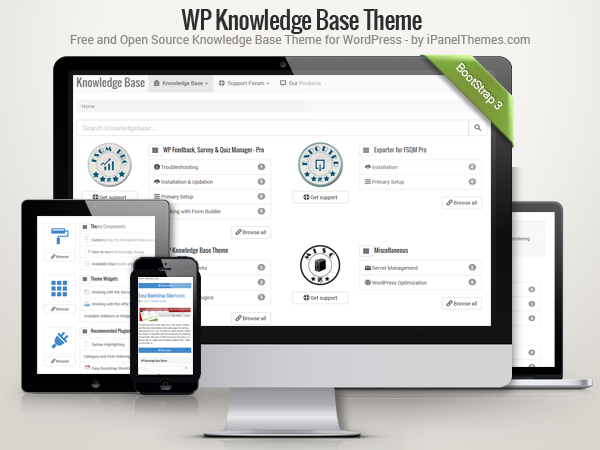
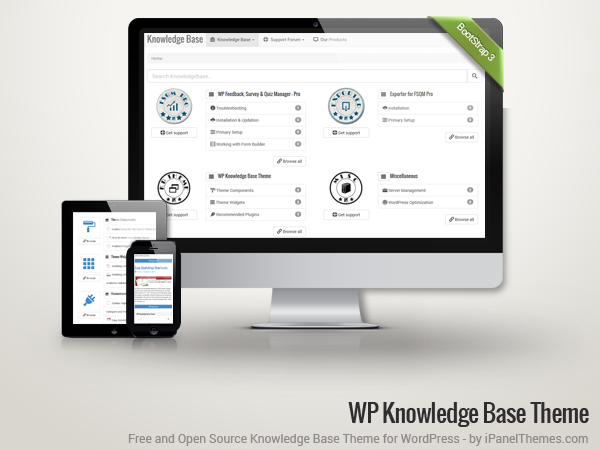
Pre commit for Version 1.1.0
Improved responsiveness on homepage and archive page, added icons on
next/previous navigation, added support for WP-PageNavi, improved image
styling on post content, improved gallery style, Changed theme main
image.

diff --git a/style.css b/style.css
@@ -434,6 +434,23 @@ textarea {
 
 /* =Media
 ----------------------------------------------- */
+a img {
+	opacity: 1;
+	-webkit-transition: opacity 400ms;
+	-moz-transition: opacity 400ms;
+	-ms-transition: opacity 400ms;
+	-o-transition: opacity 400ms;
+	transition: opacity 400ms;
+}
+a:hover img {
+	opacity: 0.7;
+}
+.entry-content img {
+	-webkit-box-shadow: 0 0 4px #eee;
+	-moz-box-shadow: 0 0 4px #eee;
+	box-shadow: 0 0 4px #eee;
+	border-radius: 4px;
+}
 img[class*="wp-image-"] {
 	border-radius: 4px;
 }
@@ -444,6 +461,9 @@ img[class*="wp-image-"] {
 	margin-bottom: 0;
 	margin-top: 0;
 	padding: 0;
+	-webkit-box-shadow: none;
+	-moz-box-shadow: none;
+	box-shadow: none;
 }
 .wp-caption {
 	border: 1px solid #ddd;
@@ -452,15 +472,22 @@ img[class*="wp-image-"] {
 	border-radius: 4px;
 	padding: 4px;
 	line-height: 1;
+	-webkit-box-shadow: 0 0 4px #eee;
+	-moz-box-shadow: 0 0 4px #eee;
+	box-shadow: 0 0 4px #eee;
 }
 .wp-caption img[class*="wp-image-"] {
 	display: block;
 	margin: 0 auto;
 	max-width: 100%;
 	border-radius: 4px;
+	-webkit-box-shadow: none;
+	-moz-box-shadow: none;
+	box-shadow: none;
 }
 .wp-caption-text {
 	text-align: center;
+	font-size: 12px;
 }
 .wp-caption .wp-caption-text {
 	margin: 0.8075em 0;
@@ -474,9 +501,13 @@ img[class*="wp-image-"] {
 	border: none;
 	height: auto;
 	max-width: 90%;
+	border: medium none !important;
+	-webkit-box-shadow: 0 0 4px #eee;
+	-moz-box-shadow: 0 0 4px #eee;
+	box-shadow: 0 0 4px #eee;
 }
 .site-main .gallery dd {
-	margin: 0;
+	margin: 0.8075em 0 0;
 }
 .site-main .gallery-columns-4 .gallery-item {
 }

diff --git a/inc/template-tags.php b/inc/template-tags.php
@@ -14,6 +14,46 @@ if ( ! function_exists( 'ipt_kb_content_nav' ) ) :
 function ipt_kb_content_nav( $nav_id ) {
 	global $wp_query, $post;
 
+	// Give compatibility for wp-pagenavi
+	if ( function_exists( 'wp_pagenavi' ) && ! is_single() ) {
+		$wp_pagenavi = wp_pagenavi( array(
+			'echo' => false,
+		) );
+
+		$wp_pagenavi = str_replace( array(
+			"<div class='wp-pagenavi'>",
+			'</div>',
+			"<span class='pages'>",
+			'</span>',
+			"<span class='current'>",
+			'<a href=',
+			'</a>',
+			"<span class='extend'>",
+			/* translator: Translate it to the output of WP PageNavi for your lang */
+			__( '&laquo; First', 'ipt_kb' ),
+			/* translator: Translate it to the output of WP PageNavi for your lang */
+			__( 'Last &raquo;', 'ipt_kb' ),
+			'&laquo;',
+			'&raquo;',
+		), array(
+			'<ul class="pagination">',
+			'</ul>',
+			'<li class="disabled"><span>',
+			'</span></li>',
+			'<li class="active"><span>',
+			'<li><a href=',
+			'</a></li>',
+			'<li class="disabled"><span>',
+			'<i class="glyphicon glyphicon-fast-backward"></i>',
+			'<i class="glyphicon glyphicon-fast-forward"></i>',
+			'<i class="glyphicon glyphicon-backward"></i>',
+			'<i class="glyphicon glyphicon-forward"></i>',
+		), $wp_pagenavi );
+
+		echo $wp_pagenavi;
+		return;
+	}
+
 	// Don't print empty markup on single pages if there's nowhere to navigate.
 	if ( is_single() ) {
 		$previous = ( is_attachment() ) ? get_post( $post->post_parent ) : get_adjacent_post( false, '', true );
@@ -28,6 +68,8 @@ function ipt_kb_content_nav( $nav_id ) {
 		return;
 
 	$nav_class = ( is_single() ) ? 'post-navigation' : 'paging-navigation';
+
+	// Add support with bootstrap pager
 	$nav_class .= ' pager';
 
 	?>
@@ -35,17 +77,17 @@ function ipt_kb_content_nav( $nav_id ) {
 		<li class="screen-reader-text"><?php _e( 'Post navigation', 'ipt_kb' ); ?></li>
 	<?php if ( is_single() ) : // navigation links for single posts ?>
 
-		<?php previous_post_link( '<li class="nav-previous previous">%link</li>', '<span class="meta-nav">' . _x( '&larr;', 'Previous post link', 'ipt_kb' ) . '</span> %title' ); ?>
-		<?php next_post_link( '<li class="nav-next next">%link</li>', '%title <span class="meta-nav">' . _x( '&rarr;', 'Next post link', 'ipt_kb' ) . '</span>' ); ?>
+		<?php previous_post_link( '<li class="nav-previous previous">%link</li>', '<span class="meta-nav">' . _x( '<span class="glyphicon glyphicon-arrow-left"></span>', 'Previous post link', 'ipt_kb' ) . '</span> %title' ); ?>
+		<?php next_post_link( '<li class="nav-next next">%link</li>', '%title <span class="meta-nav">' . _x( '<span class="glyphicon glyphicon-arrow-right"></span>', 'Next post link', 'ipt_kb' ) . '</span>' ); ?>
 
 	<?php elseif ( $wp_query->max_num_pages > 1 && ( is_home() || is_archive() || is_search() ) ) : // navigation links for home, archive, and search pages ?>
 
 		<?php if ( get_next_posts_link() ) : ?>
-		<li class="nav-previous previous"><?php next_posts_link( __( '<span class="meta-nav">&larr;</span> Older posts', 'ipt_kb' ) ); ?></li>
+		<li class="nav-previous previous"><?php next_posts_link( __( '<span class="meta-nav"><span class="glyphicon glyphicon-arrow-left"></span></span> Older posts', 'ipt_kb' ) ); ?></li>
 		<?php endif; ?>
 
 		<?php if ( get_previous_posts_link() ) : ?>
-		<li class="nav-next next"><?php previous_posts_link( __( 'Newer posts <span class="meta-nav">&rarr;</span>', 'ipt_kb' ) ); ?></li>
+		<li class="nav-next next"><?php previous_posts_link( __( 'Newer posts <span class="meta-nav"><span class="glyphicon glyphicon-arrow-right"></span></span>', 'ipt_kb' ) ); ?></li>
 		<?php endif; ?>
 
 	<?php endif; ?>

diff --git a/home.php b/home.php
@@ -27,7 +27,7 @@ $main_categories = get_categories( array(
 				<?php $term_meta = get_option( 'ipt_kb_category_meta_' . $cat->term_id, array() ); ?>
 				<?php $term_link = esc_url( get_term_link( $cat ) ); ?>
 				<div class="col-md-6">
-					<div class="col-md-4">
+					<div class="col-sm-4 hidden-xs">
 						<?php if ( isset( $term_meta['image_url'] ) && '' != $term_meta['image_url'] ) : ?>
 						<p class="text-center">
 							<a href="<?php echo $term_link; ?>">
@@ -43,7 +43,7 @@ $main_categories = get_categories( array(
 						<?php endif; ?>
 						</div>
 					</div>
-					<div class="col-md-8">
+					<div class="col-sm-8">
 						<h2 class="knowledgebase-title"><a data-popt="kb-homepage-popover-<?php echo $cat->term_id; ?>" title="<?php echo esc_attr( $cat->name ); ?>" href="#" class="btn btn-default btn-sm text-muted ipt-kb-popover"><i class="glyphicon ipt-paragraph-justify "></i></a> <?php echo $cat->name; ?></h2>
 						<div class="ipt-kb-popover-target" id="kb-homepage-popover-<?php echo $cat->term_id; ?>">
 							<?php echo wpautop( $cat->description ); ?>
@@ -57,6 +57,22 @@ $main_categories = get_categories( array(
 									<i class="glyphicon ipt-link"></i> <?php _e( 'Browse all', 'ipt_kb' ); ?>
 								</a>
 							</p>
+						</div>
+						<div class="visible-xs">
+							<?php if ( isset( $term_meta['image_url'] ) && '' != $term_meta['image_url'] ) : ?>
+							<p class="text-center">
+								<a href="<?php echo $term_link; ?>">
+								<img class="img-circle" src="<?php echo esc_attr( $term_meta['image_url'] ); ?>" alt="<?php echo esc_attr( $cat->name ); ?>" />
+								</a>
+							</p>
+							<?php endif; ?>
+							<div class="caption">
+							<?php if ( isset( $term_meta['support_forum'] ) && '' != $term_meta['support_forum'] ) : ?>
+								<p class="text-center"><a class="btn btn-default btn-block" href="<?php echo esc_url( $term_meta['support_forum'] ); ?>">
+									<i class="glyphicon ipt-support"></i> <?php _e( 'Get support', 'ipt_kb' ); ?>
+								</a></p>
+							<?php endif; ?>
+							</div>
 						</div>
 						<?php $sub_categories = get_categories( array(
 							'taxonomy' => 'category',

diff --git a/category-templates/category-parent.php b/category-templates/category-parent.php
@@ -46,7 +46,7 @@ global $term_meta, $cat, $cat_id, $sub_categories;
 			'posts_per_page' => get_option( 'posts_per_page', 5 ),
 		) ); ?>
 		<div class="col-md-6 kb-subcat">
-			<div class="col-md-3 col-sm-2 col-xs-3 kb-subcat-icon">
+			<div class="col-md-3 col-sm-2 hidden-xs kb-subcat-icon">
 				<p class="text-center">
 					<a href="<?php echo $sterm_link; ?>" class="thumbnail">
 						<?php if ( isset( $sterm_meta['icon_class'] ) && '' != $sterm_meta['icon_class'] ) : ?>
@@ -63,7 +63,7 @@ global $term_meta, $cat, $cat_id, $sub_categories;
 					</a>
 				</p>
 			</div>
-			<div class="col-md-9 col-sm-10 col-xs-9">
+			<div class="col-md-9 col-sm-10 col-xs-12">
 				<h2 class="knowledgebase-title"><a data-popt="kb-homepage-popover-<?php echo $scat->term_id; ?>" title="<?php echo esc_attr( sprintf( __( '%1$s / %2$s', 'ipt_kb' ), $cat->name, $scat->name ) ); ?>" href="#" class="btn btn-default btn-sm text-muted ipt-kb-popover"><i class="glyphicon ipt-paragraph-justify "></i></a> <?php echo $scat->name; ?></h2>
 				<div class="ipt-kb-popover-target" id="kb-homepage-popover-<?php echo $scat->term_id; ?>">
 					<?php echo wpautop( $scat->description ); ?>
@@ -75,6 +75,24 @@ global $term_meta, $cat, $cat_id, $sub_categories;
 						<?php endif; ?>
 						<a href="<?php echo $sterm_link; ?>" class="btn btn-info">
 							<i class="glyphicon ipt-link"></i> <?php _e( 'Browse all', 'ipt_kb' ); ?>
+						</a>
+					</p>
+				</div>
+
+				<div class="visible-xs kb-subcat-icon">
+					<p class="text-center">
+						<a href="<?php echo $sterm_link; ?>" class="thumbnail">
+							<?php if ( isset( $sterm_meta['icon_class'] ) && '' != $sterm_meta['icon_class'] ) : ?>
+							<i class="glyphicon <?php echo esc_attr( $sterm_meta['icon_class'] ); ?>"></i>
+							<?php else : ?>
+							<i class="glyphicon ipt-books"></i>
+							<?php endif; ?>
+						</a>
+					</p>
+					<p class="text-center">
+						<a href="<?php echo $sterm_link; ?>" class="btn btn-default btn-block">
+							<i class="glyphicon ipt-link"></i>
+							<?php _e( 'Browse', 'ipt_kb' ); ?>
 						</a>
 					</p>
 				</div>

diff --git a/image.php b/image.php
@@ -33,10 +33,10 @@ get_header(); ?>
 						?>
 					</div><!-- .entry-meta -->
 
-					<nav role="navigation" id="image-navigation" class="image-navigation">
-						<div class="nav-previous"><?php previous_image_link( false, __( '<span class="meta-nav">&larr;</span> Previous', 'ipt_kb' ) ); ?></div>
-						<div class="nav-next"><?php next_image_link( false, __( 'Next <span class="meta-nav">&rarr;</span>', 'ipt_kb' ) ); ?></div>
-					</nav><!-- #image-navigation -->
+					<ul role="navigation" id="image-navigation" class="image-navigation pager">
+						<li class="nav-previous previous"><?php previous_image_link( false, __( '<span class="meta-nav"><span class="glyphicon glyphicon-arrow-left"></span></span> Previous', 'ipt_kb' ) ); ?></li>
+						<li class="nav-next next"><?php next_image_link( false, __( 'Next <span class="meta-nav"><span class="glyphicon glyphicon-arrow-right"></span></span>', 'ipt_kb' ) ); ?></li>
+					</ul><!-- #image-navigation -->
 				</header><!-- .entry-header -->
 
 				<div class="entry-content">

diff --git a/README.md b/README.md
@@ -7,7 +7,7 @@ Finally a free and open source knowledgebase theme made specifically for WordPre
 Uses twitter bootstrap for rendering UI components and some other open source elements
 for rendering niceness.
 
-First release is out. Simply download the master and upload it as a theme.
+We are going to release first stable version 1.1.0. Check the release channel.
 
 ## Acknowledgement
 Before we dive into the cool features of this theme, let's take a minute here to acknowledge
@@ -19,14 +19,22 @@ all the tools that were used during the development of this theme.
 * [*wp-bootstrap-navwalker*](https://github.com/twittem/wp-bootstrap-navwalker): A little forked version to generate the top nav.
 
 ## Features
-* Awesome bootstrap 3.0 UI all over the theme
-* Completely responsive, filled with functionality and eye candy
-* Categorized Knowledgebase with support forum link, category images and icons.
-* Dynamic homepage converted into something suitable for a general knowledgebase (based on categories).
-* Affix widget on knowledgebase articles.
+* Awesome bootstrap 3.0 UI all over the theme.
+* Easily manage multiple knowledge base with categories and posts and nothing else.
+* Nice and fine user experience for your customers.
+* Add custom images and icons to categories or knowledge bases.
+* Completely responsive structure, thanks to Bootstrap.
+* A nice dynamic homepage featuring all your knowledge bases.
+* Individual category archives for featuring single knowledge base.
+* Nice looking archive page for child categories with post featured images.
+* Affix widget and social widget.
+* Compatibility with a number of bootstrap plugins.
+* In built compatibility with a number of other plugins. (See recommended plugins).
 * A nice and small footer to show off.
+* Bootstrap navigation menu with custom-header image as logo.
+* and so on...
 
-## Components converted to bootstrap UI
+## Core Components converted to bootstrap UI
 * Home Page
 * Category Pages
 * Subcategory pages
@@ -48,8 +56,14 @@ This will always be the cutting edge development version of the theme. Pull requ
 * Footer large (on left) - ideal for a short about us
 * Footer small (on right) - ideal for social widget
 
+## Compatible and Recommended Plugins
+* [Easy Bootstrap Shortcode](http://ipanelthemes.com/kb/easy-bootstrap-shortcode/) : Add shortcode functionality to output bootstrap components.
+* [Category and Post Ordering](http://ipanelthemes.com/kb/category-post-ordering/) : Reorder Knowledge Bases and articles.
+* [Syntax Highlighter Evolved](http://ipanelthemes.com/kb/syntax-highlighting/) : Put source codes on your post.
+* [WP-PageNavi](http://ipanelthemes.com/kb/pagination-using-wp-pagenavi/) : Convert Next/Previous links on archive pages to paginations.
+
 ## Documentation
-Extensive documentation on how to use this theme is available [at this link](http://ipanelthemes.com/kb/products/wp-knowledge-base-theme/).
+Comprehensive documentation on how to use this theme is available [at this link](http://ipanelthemes.com/kb/products/wp-knowledge-base-theme/).
 
 ## Live Preview
 Check our own [Knowledge Base](http://ipanelthemes.com/kb/).
